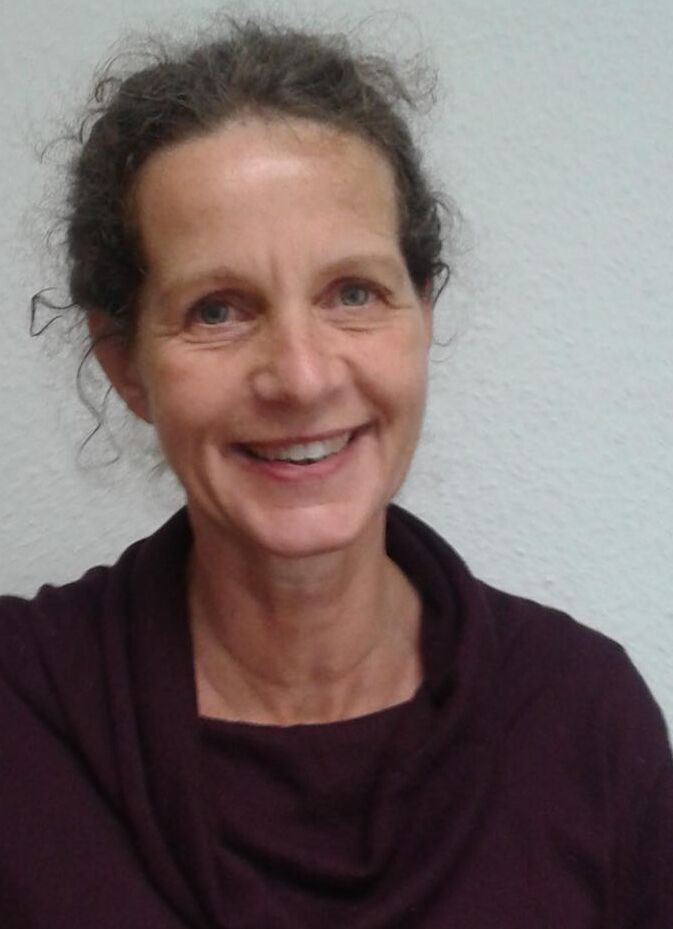
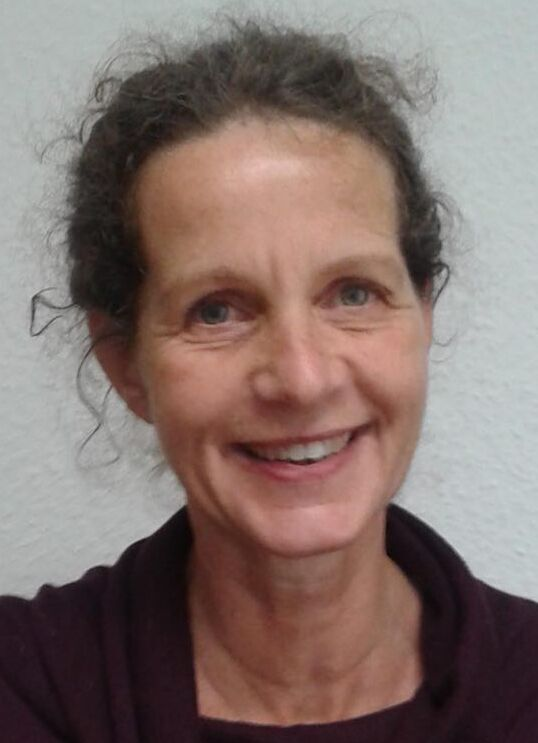
recrop kareen, finish profile style

diff --git a/index.html b/index.html
@@ -44,7 +44,7 @@
                     </h2>
                 </div>
             </div>
-            <div id="dasText">
+            <div>
                 <div>
                     <p class="mainTextStyle">TANZWERK Mensch e.V. ist ein gemeinnütziger Verein, der sich 2015 gegründet
                         hat.
@@ -53,15 +53,18 @@
                         Begegnungen mit anderen Kunstgenres werden gern gesucht.
                     </p>
                 </div>
-                <h5 class="mainTitles">DER VORSTAND</h5>
+                <h5 class="smallTitle">DER VORSTAND</h5>
                 <div class="profile">
-                    <img class="imgProfile" src="mainImages/Kareen Meler.jpg" alt="Kareen Meler">
                     <div class="profileText">
+                        <img class="imgProfile" src="mainImages/Kareen Meler.jpg" alt="Kareen Meler">
                         <div>
-                            <h5 class="small-title">Kareen Meier</h5>
+                            <h5 class="smallTitle">Kareen Meier</h5>
                             <h5 class="mainTextStyle">1. Vorsitzende</h5>
                         </div>
-                        <p>Ich bin Dipl. Sozialpädagogin und arbeite im Bereich der Kinder- und Jugendhilfe. Inspiriert
+                    </div>
+                    <div>
+                        <p class="mainTextStyle">Ich bin Dipl. Sozialpädagogin und arbeite im Bereich der Kinder- und
+                            Jugendhilfe. Inspiriert
                             durch mein langjähriges Mitwirken in der TanzKunst Ulrike Wallis habe ich diesen Verein 2015
                             mit gegründet. Meine Motivation war und ist , die künstlerische Arbeit der TanzKunst auf
                             eine breitere Basis zu stellen, andere Kunstrichtungen unter gesellschaftlich-sozialen
@@ -70,12 +73,14 @@
                     </div>
                 </div>
                 <div class="profile">
-                    <img class="imgProfile" src="mainImages/Peter Wolfgang Kelm.jpg" alt="Peter W. Kelm">
                     <div class="profileText">
+                        <img class="imgProfile" src="mainImages/Peter Wolfgang Kelm.jpg" alt="Peter W. Kelm">
                         <div>
-                            <h5 class="small-title">Peter W. Kelm</h5>
+                            <h5 class="smallTitle">Peter W. Kelm</h5>
                             <h5 class="mainTextStyle">2. Vorsitzende</h5>
                         </div>
+                    </div>
+                    <div>
                         <p>Ich bin Diplom-Pädagoge und lebe aktuell meine Berufung als Heilpraktiker für Psychotherapie,
                             vormals Theaterschaffender (auch gemeinsame Projekte mit Ulrike Wallis). „Ich bin im
                             Vorstand weil ich Ulrikes individuell-kreativen Ansatz in der Arbeit mit demenziell
@@ -84,12 +89,14 @@
                     </div>
                 </div>
                 <div class="profile">
-                    <img class="imgProfile" src="mainImages/Ulrike Wallis.jpg" alt="Ulrike Wallis">
                     <div class="profileText">
+                        <img class="imgProfile" src="mainImages/Ulrike Wallis.jpg" alt="Ulrike Wallis">
                         <div>
-                            <h5 class="small-title">Ulrike Wallis</h5>
+                            <h5 class="smallTitle">Ulrike Wallis</h5>
                             <h5 class="mainTextStyle">3. Vorsitzende</h5>
                         </div>
+                    </div>
+                    <div>
                         <p>Ich bin Tanz- und Performancekünstlerin und Erwachsenenbildnerin und leite seit 1997 die
                             „TanzKunst- Schule für zeitgenössischen künstlerischen Tanz, Performance und Kommunikation“
                             , Hannover. Ich bin Mitbegründerin des Vereins TANZWERK Mensch e.V. Die Kinst in den Dienst
@@ -100,12 +107,14 @@
                     </div>
                 </div>
                 <div class="profile">
-                    <img class="imgProfile" src="mainImages/Sonja Mäkeler.jpg" alt="Sonja Mäkeler">
                     <div class="profileText">
+                        <img class="imgProfile" src="mainImages/Sonja Mäkeler.jpg" alt="Sonja Mäkeler">
                         <div>
-                            <h5 class="small-title">Sonja Mäkeler</h5>
+                            <h5 class="smallTitle">Sonja Mäkeler</h5>
                             <h5 class="mainTextStyle">Kassenwartin</h5>
                         </div>
+                    </div>
+                    <div>
                         <p>Ich bin im Vorstand weil ich schon viele schöne Erinnerungen an verschiedene Projekte mit
                             Kareen und Ulrike habe.Ich möchte noch viele neue erleben. Ich bin Erzieherin und arbeite in
                             einer heilpädagogischen Wohngruppe mit Kindern und Jugendlichen.
@@ -136,22 +145,22 @@
                         Prozesse, in einen unmittelbaren alltäglichen Kontext gestellt, möchte an einem Wandel auf
                         Zukunft hin mitwirken.</p><br>
                     <p class="mainTextStyle">Vielfältige Angebote wurden bislang unterstützt bzw. Initiiert:</p>
-                    <p class="mainTextStyle"><span class="small-title">KIMAKU:</span>Kinder machen Kunst – finanzielle
+                    <p class="mainTextStyle"><span class="smallTitle">KIMAKU:</span>Kinder machen Kunst – finanzielle
                         Unterstützung eines
                         Kunstprojektes für Kinder im Stadtteil Hannover-Mittelfeld</p><br>
-                    <p class="mainTextStyle"> <span class="small-title">EURYTHMIESEMINARE:</span> Organisation mehrerer
+                    <p class="mainTextStyle"> <span class="smallTitle">EURYTHMIESEMINARE:</span> Organisation mehrerer
                         Eurythmieseminare mit
                         Annemarie Ehrlich, Den Haag</p><br>
-                    <p class="mainTextStyle"><span class="small-title">STIMME IN BEWEGUNG:</span> Organisation von
+                    <p class="mainTextStyle"><span class="smallTitle">STIMME IN BEWEGUNG:</span> Organisation von
                         Seminaren mit TanzKunst
                         Ulrike Wallis, Hannover, und Dr. phil.Ralph Nickles, Oldenburg, (Musikwissenschaftler,
                         Altphilologe, Heilpraktiker).<br><a href="www.ulrikewallis.de"
                             class="blue">www.ulrikewallis.de</a>
                         | <a href="www.ralphnickles.de" class="blue">www.ralphnickles.de</a></p><br>
-                    <p class="mainTextStyle"><span class="small-title">KUNST WANDELT ...:</span>eine Veranstaltung des
+                    <p class="mainTextStyle"><span class="smallTitle">KUNST WANDELT ...:</span>eine Veranstaltung des
                         Vereins im Bürgerholz
                         Hemmingen unter der Beteiligung von 13 Künstlerinnen und Künstlern (Profis und Amateure)</p><br>
-                    <p class="mainTextStyle"><span class="small-title">KUNST und DEMENZ:</span> Ein Projekt der Tanz-
+                    <p class="mainTextStyle"><span class="smallTitle">KUNST und DEMENZ:</span> Ein Projekt der Tanz-
                         und
                         Performancekünstlerin Ulrike Wallis in der Zusammenarbeit mit der Pflegeeinrichtung
                         Friedrich-Rittelmeyer-Haus, Hannover. Der Verein unterstützt durch Spendenaquise finanziell
@@ -162,11 +171,11 @@
             </div>
         </section>
         <footer id="Kontakt" class="wrapper">
-            <div>
+            <div class="bigHeaders bigHeadersSmallScreen">
                 <h2><b>KONTAKT</b></h2>
             </div>
             <div id="kontaktTab">
-                <div class="small-title">
+                <div class="smallTitle">
                     <p class="mainTextStyle">TANZWERK Mensch e.V. <br>
                         Walter-Gieseking-Str. 17 <br>
                         30159 Hannover</p>

diff --git a/index.css b/index.css
@@ -79,6 +79,9 @@ html {
     scroll-behavior: smooth;
 }
 
+.blue {
+    color: rgb(69, 146, 177);
+}
 
 .wrapper {
     width: 95vw;
@@ -93,6 +96,11 @@ body {
     font-size: 1.2rem;
 }
 
+.smallTitle {
+    font-weight: 600;
+    font-size: 1.3rem;
+}
+
 
 /* header */
 
@@ -104,7 +112,7 @@ body {
     background-size: cover;
     width: 100vw;
     height: 100vh;
-    text-shadow: -4px -4px 10px rgb(0, 0, 0), 4px 4px 10px rgb(0, 0, 0), -4px 4px 10px rgb(0, 0, 0);
+    text-shadow: -2px -2px 5px rgb(99, 89, 89), 4px 4px 10px rgb(61, 60, 60), -4px 4px 10px rgb(0, 0, 0);
     display: flex;
     justify-content: center;
     flex-direction: column;
@@ -173,6 +181,52 @@ body {
     font-weight: 800;
     font-size: 100px;
     padding: 5vw 0 10vw 0;
+}
+
+.bigHeadersSmallScreen {
+    font-size: 3.5em;
+}
+
+.mainTextStyle {
+    padding: 1rem 0 1rem;
+}
+
+/*  Das section */
+
+.imgProfile {
+    width: 8rem;
+    border-radius: 10%;
+    margin-right: 1rem;
+    height: 25%;
+
+    /* box-shadow: 0 0 20px rgb(255, 255, 255); */
+}
+
+
+.profile {
+    display: flex;
+    flex-direction: column;
+    border-radius: 10px;
+    padding: 2rem .5rem 0 .5rem;
+    margin-bottom: 5px;
+}
+
+.profileText {
+    margin: auto;
+    display: flex;
+    flex-direction: row;
+
+}
+
+.profileText div h5 {
+    position: relative;
+    top: 50%;
+}
+
+.profile div p {
+    padding-top: .5rem;
+    margin-top: 1rem;
+    border-top: 1px solid white;
 }
 
 
@@ -272,9 +326,7 @@ nav ul li:hover {
     margin: auto;
 }
 
-.blue {
-    color: rgb(69, 146, 177);
-}
+
 
 
 #Das {
